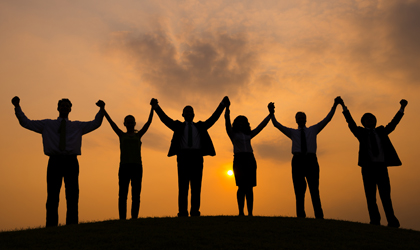
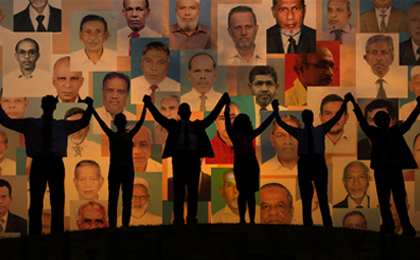
add member images and member page

diff --git a/members.html b/members.html
@@ -1,0 +1,253 @@
+<!DOCTYPE html>
+<html lang="en-US">
+   <head>
+      <meta charset="UTF-8">
+      <meta name="viewport" content="width=device-width, initial-scale=1.0" />
+      <title>Members</title>
+      <link rel="stylesheet" href="css/components.css">
+      <link rel="stylesheet" href="css/responsee.css">
+      <link rel="stylesheet" href="owl-carousel/owl.carousel.css">
+      <link rel="stylesheet" href="owl-carousel/owl.theme.css">
+      <!-- CUSTOM STYLE -->  
+      <link rel="stylesheet" href="css/template-style.css">
+      <link href='http://fonts.googleapis.com/css?family=Open+Sans:400,300,600,700,800&amp;subset=latin,latin-ext' rel='stylesheet' type='text/css'>
+      <script type="text/javascript" src="js/jquery-1.8.3.min.js"></script>
+      <script type="text/javascript" src="js/jquery-ui.min.js"></script>    
+      <script type="text/javascript" src="js/modernizr.js"></script>
+      <script type="text/javascript" src="js/responsee.js"></script>   
+      <!--[if lt IE 9]>
+	      <script src="http://html5shiv.googlecode.com/svn/trunk/html5.js"></script>
+        <script src="http://css3-mediaqueries-js.googlecode.com/svn/trunk/css3-mediaqueries.js"></script>
+      <![endif]-->
+   </head>
+   <body class="size-1140">
+      <!-- TOP NAV WITH LOGO -->  
+      <header>
+         <nav>
+            <div class="line">
+               <div class="top-nav">              
+                  <div class="logo hide-l">
+                     <a href="index.html">Al-Hambra <br /><strong>Scholars Hostal OBA</strong></a>
+                  </div>                  
+                  <p class="nav-text">Custom menu text</p>
+                  <div class="top-nav s-12 l-5">
+                     <ul class="right top-ul chevron">
+                        <li><a href="index.html">Home</a>
+                        </li>
+                        <li><a href="">Events</a>
+                        </li>
+                     </ul>
+                  </div>
+                  <ul class="s-12 l-2">
+                     <li class="logo hide-s hide-m">
+                        <a href="index.html">Al-Hambra <br /><strong>Scholars Hostal OBA</strong></a>
+                     </li>
+                  </ul>
+                  <div class="top-nav s-12 l-5">
+                     <ul class="top-ul chevron">
+                        <li><a href="">Social Services</a>
+                        </li>
+                        <li><a href="members.html">Members</a>
+                        </li>
+                     </ul> 
+                  </div>
+               </div>
+            </div>
+         </nav>
+      </header>
+      <section>
+         <div id="head">
+            <div class="line">
+               <h1></h1>
+            </div>
+         </div>
+         <div id="content">
+            <div class="line">
+               <div class="margin">
+                  <div class="s-12 m-12 l-12">
+                     <div class="content-block margin-bottom">
+                        <i class="icon-paperplane_ico icon2x"></i>
+                        <h3>Executive Committee</h3>
+						<img src="img/committee.jpg">  
+                        <p>
+						Naseem Abdulla, M.T.M Munas, M.S.M Naeem, A.I.M Junaid, M.S.M Faslie
+						<br>
+						M.S.M Nizamdeen, M.M.M Riluwan, M.M.F Haque, C.S.M.M Haniffa
+                        </p>
+                     </div>
+                  </div>
+				  
+				<!--  
+                  <div class="s-12 m-6 l-4">
+                     <div class="content-block margin-bottom">
+                        <i class="icon-display_screen icon2x"></i>
+                        <h3>Responsive</h3>
+                        <p>Lorem ipsum dolor sit amet, consectetuer adipiscing elit, sed diam nonummy nibh euismod tincidunt ut laoreet dolore magna aliquam erat volutpat.
+                        </p>
+                     </div>
+                  </div>
+                  <div class="s-12 m-6 l-4">
+                     <div class="content-block margin-bottom">
+                        <i class="icon-heart icon2x"></i>
+                        <h3>Intuitive</h3>
+                        <p>Lorem ipsum dolor sit amet, consectetuer adipiscing elit, sed diam nonummy nibh euismod tincidunt ut laoreet dolore magna aliquam erat volutpat.
+                        </p>
+                     </div>
+                  </div>
+                  <div class="s-12 m-6 l-4">
+                     <div class="content-block margin-bottom">
+                        <i class="icon-attachment icon2x"></i>
+                        <h3>Useful</h3>
+                        <p>Lorem ipsum dolor sit amet, consectetuer adipiscing elit, sed diam nonummy nibh euismod tincidunt ut laoreet dolore magna aliquam erat volutpat.
+                        </p>
+                     </div>
+                  </div>
+                  <div class="s-12 m-6 l-4">
+                     <div class="content-block margin-bottom">
+                        <i class="icon-reorder icon2x"></i>
+                        <h3>Responsive navigation</h3>
+                        <p>Lorem ipsum dolor sit amet, consectetuer adipiscing elit, sed diam nonummy nibh euismod tincidunt ut laoreet dolore magna aliquam erat volutpat.
+                        </p>
+                     </div>
+                  </div>
+                  <div class="s-12 m-6 l-4">
+                     <div class="content-block margin-bottom">
+                        <i class="icon-mail icon2x"></i>
+                        <h3>Responsive components</h3>
+                        <p>Lorem ipsum dolor sit amet, consectetuer adipiscing elit, sed diam nonummy nibh euismod tincidunt ut laoreet dolore magna aliquam erat volutpat.
+                        </p>
+                     </div>
+                  </div>
+              
+-->
+			  </div>
+            </div>
+         </div>
+         <!-- GALLERY -->	
+         <div id="third-block">
+            <div class="line">
+               <h2>Al-Hambra Scholars Hostal OBA - Members</h2>
+               <p class="subtitile">
+               </p>
+               <div class="margin">
+                  <div class="s-6 m-3 l-3">
+                     <img src="img/members/2.jpg">      
+                     <p class="subtitile">M.S.M Nizam - Teacher
+                     </p>
+                  </div>
+                  <div class="s-6 m-3 l-3">
+                     <img src="img/members/3.jpg">         
+                     <p class="subtitile">M.H.M Rasheed - Technical Officer
+                     </p>
+                  </div>
+                  <div class="s-6 m-3 l-3">
+                     <img src="img/members/4.jpg">        
+                     <p class="subtitile">A.L.M Naleer - Principal
+                     </p>
+                  </div>
+                  <div class="s-6 m-3 l-3">
+                     <img src="img/members/5.jpg">         
+                     <p class="subtitile">A.W.M Zawahir - Admin Officer
+                     </p>
+                  </div>
+				  <div class="s-6 m-3 l-3">
+                     <img src="img/members/6.jpg">         
+                     <p class="subtitile">Fousul Niyas JP - CEO
+                     </p>
+                  </div>
+				  <div class="s-6 m-3 l-3">
+                     <img src="img/members/7.jpg">      
+                     <p class="subtitile">M.U Amanulla - Principal
+                     </p>
+                  </div>
+                  <div class="s-6 m-3 l-3">
+                     <img src="img/members/8.jpg">         
+                     <p class="subtitile">M.S.M Hamza - Businessman
+                     </p>
+                  </div>
+                  <div class="s-6 m-3 l-3">
+                     <img src="img/members/9.jpg">        
+                     <p class="subtitile">M.M Fazlul Haque - Telocom Engineer
+                     </p>
+                  </div>
+                  <div class="s-6 m-3 l-3">
+                     <img src="img/members/10.jpg">         
+                     <p class="subtitile">A.S.M Munas - Businessman
+                     </p>
+                  </div>
+				  <div class="s-6 m-3 l-3">
+                     <img src="img/members/11.jpg">         
+                     <p class="subtitile">A.L.M Farook - Principal
+                     </p>
+                  </div>
+				  <div class="s-6 m-3 l-3">
+                     <img src="img/members/12.jpg">         
+                     <p class="subtitile">M.S.M Naeem - Gem Merchant
+                     </p>
+                  </div>
+				  <div class="s-6 m-3 l-3">
+                     <img src="img/members/13.jpg">         
+                     <p class="subtitile">A.H.M Saleem - Director of Education
+                     </p>
+                  </div>
+               </div>
+            </div>
+         </div>
+         <div id="fourth-block">
+            <div class="line">
+               <div id="owl-demo2" class="owl-carousel owl-theme">
+                  <div class="item">
+                     <h2>Amazing responsive template</h2>
+                     <p class="s-12 m-12 l-8 center">Lorem ipsum dolor sit amet, consectetuer adipiscing elit, sed diam nonummy nibh euismod tincidunt ut laoreet dolore magna aliquam erat volutpat. Ut wisi enim ad minim veniam, quis nostrud exerci tation ullamcorper suscipit lobortis nisl ut aliquip ex ea commodo consequat.
+                     </p>
+                  </div>
+                  <div class="item">
+                     <h2>Responsive components</h2>
+                     <p class="s-12 m-12 l-8 center">Lorem ipsum dolor sit amet, consectetuer adipiscing elit, sed diam nonummy nibh euismod tincidunt ut laoreet dolore magna aliquam erat volutpat. Ut wisi enim ad minim veniam, quis nostrud exerci tation ullamcorper suscipit lobortis nisl ut aliquip ex ea commodo consequat.
+                     </p>
+                  </div>
+                  <div class="item">
+                     <h2>Retina ready</h2>
+                     <p class="s-12 m-12 l-8 center">Lorem ipsum dolor sit amet, consectetuer adipiscing elit, sed diam nonummy nibh euismod tincidunt ut laoreet dolore magna aliquam erat volutpat. Ut wisi enim ad minim veniam, quis nostrud exerci tation ullamcorper suscipit lobortis nisl ut aliquip ex ea commodo consequat.
+                     </p>
+                  </div>
+               </div>
+            </div>
+         </div>
+      </section>
+      <!-- FOOTER -->   
+      <footer>
+         <div class="line">
+            <div class="s-12 l-6">
+               <p>Copyright 2015, Vision Design - graphic zoo
+               </p>
+            </div>
+            <div class="s-12 l-6">
+               <p class="right">
+                  <a class="right" href="http://www.myresponsee.com" title="Responsee - lightweight responsive framework">Design and coding by Responsee Team</a>
+               </p>
+            </div>
+         </div>
+      </footer>
+      <script type="text/javascript" src="owl-carousel/owl.carousel.js"></script>   
+      <script type="text/javascript">
+         jQuery(document).ready(function($) {  
+           $("#owl-demo").owlCarousel({
+         	slideSpeed : 300,
+         	autoPlay : true,
+         	navigation : false,
+         	pagination : false,
+         	singleItem:true
+           });
+           $("#owl-demo2").owlCarousel({
+         	slideSpeed : 300,
+         	autoPlay : true,
+         	navigation : false,
+         	pagination : true,
+         	singleItem:true
+           });
+         });	
+          
+      </script> 
+   </body>
+</html>

diff --git a/index.html b/index.html
@@ -34,7 +34,7 @@
                      <ul class="right top-ul chevron">
                         <li><a href="index.html">Home</a>
                         </li>
-                        <li><a href="">Events</a>
+                        <li><a href="members.html">Members</a>
                         </li>
                      </ul>
                   </div>
@@ -47,7 +47,7 @@
                      <ul class="top-ul chevron">
                         <li><a href="">Social Services</a>
                         </li>
-                        <li><a href="">Members</a>
+						<li><a href="">Events</a>
                         </li>
                      </ul> 
                   </div>
@@ -64,10 +64,10 @@
                   <div class="carousel-text">
                      <div class="line">
                         <div class="s-12 l-9">
-                           <h2>A Collection of Friends, Roommates and Family</h2>
+                           <h2>We collectively work</h2>
                         </div>
                         <div class="s-12 l-9">
-                           <p>With a hope to provide a better future for our society
+                           <p>to develop cordial ties among Families, Communities and other Associations
                            </p>
                         </div>
                      </div>
@@ -109,9 +109,23 @@
          <!-- FIRST BLOCK --> 	
          <div id="first-block">
             <div class="line">
-               <h2>Al-Hambra Scholars Hostal Old Boys Association</h2>
-               <p class="subtitile">Site Still Under Construction
+               
+			  
+			   <h2>Our Mission</h2>
+               <p class="subtitile"><h3>To bring together all members of Al Hambra Scholars Hostal under a single group and conduct activities of Education, Culture, Religious and Charitable nature</h3>
                </p>
+			  
+			   <br/>
+			   <h2>Our Objective</h2>
+               <p class="subtitile"><h3>To Develop cordial ties among families, communities and other associations</h3>
+               </p>
+			   
+			   <br/>
+			   <h2>Our Membership</h2>
+               <p class="subtitile"><h3>Open to all Scholars of Al Hambra and Zahira College, Dharga Town who were in Government Hostels 1945 to 1973</h3>
+               </p>
+			   
+			   <br/>
                <div class="margin">
                   <div class="s-12 m-6 l-3 margin-bottom">
                      <i class="icon-paperplane_ico icon2x"></i>
